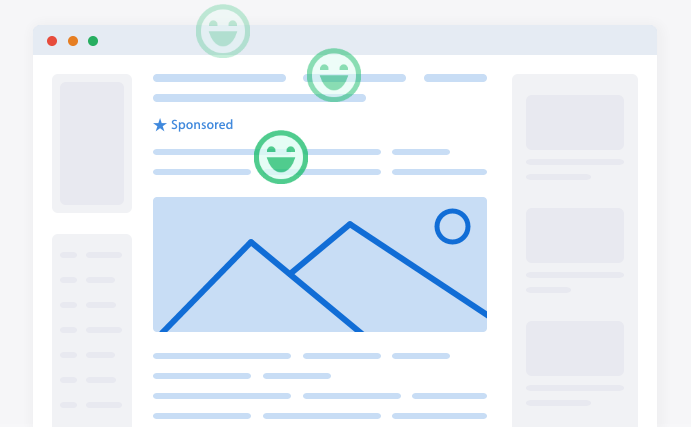
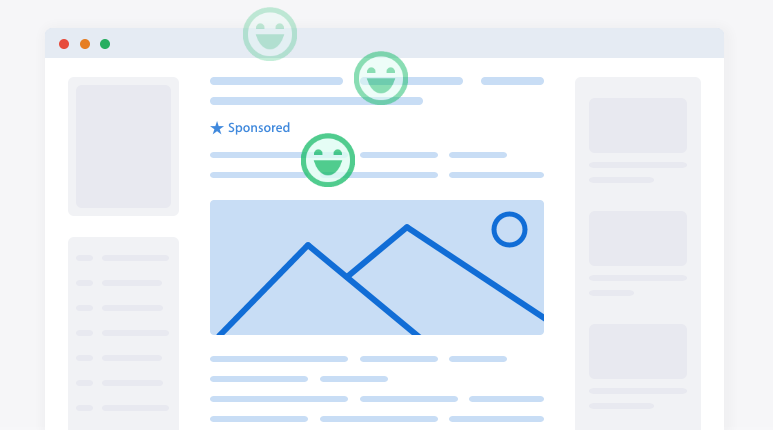
css

diff --git a/cortonlab.com/platforms.html b/cortonlab.com/platforms.html
@@ -72,7 +72,7 @@
 </div>
 
 <div class="section-5" id="abautone" style="background: #F6F6F8;">
-   <div class="div-block-43 auditdor">
+   <div class="div-block-43 auditdor" style="padding-bottom: 0px !important;">
       <div class="div-block-51" style="width: 100%;">
 	     <div class="div-block-34">
 		    <h1 class="haudit" style="width:100%;">Ваши посетители полюбят наши<br>нативные спонсорские статьи.</h1>
@@ -81,7 +81,7 @@
 		    <div class="text-block-14" style="width: 100%; text-align: center;">Спонсорские статьи - это всегда релевантные материалы с полезным или интересным контентом от бренда. Это наиболее лояльный формат рекламы в интернете. Каждая такая статья на вашем сайте будет иметь маркер о том, что это реклама.
 			</div>
 			<div style="text-align: center;">
-			     <img src="/images/homeplatform.png" style="width: 100%; max-width: 691px; margin-top: 40px;">
+			     <img src="/images/homeplatform.png" style="width: 100%; max-width: 773px; margin-top: 40px;">
 		    </div>
 		 </div>
 	  </div>
